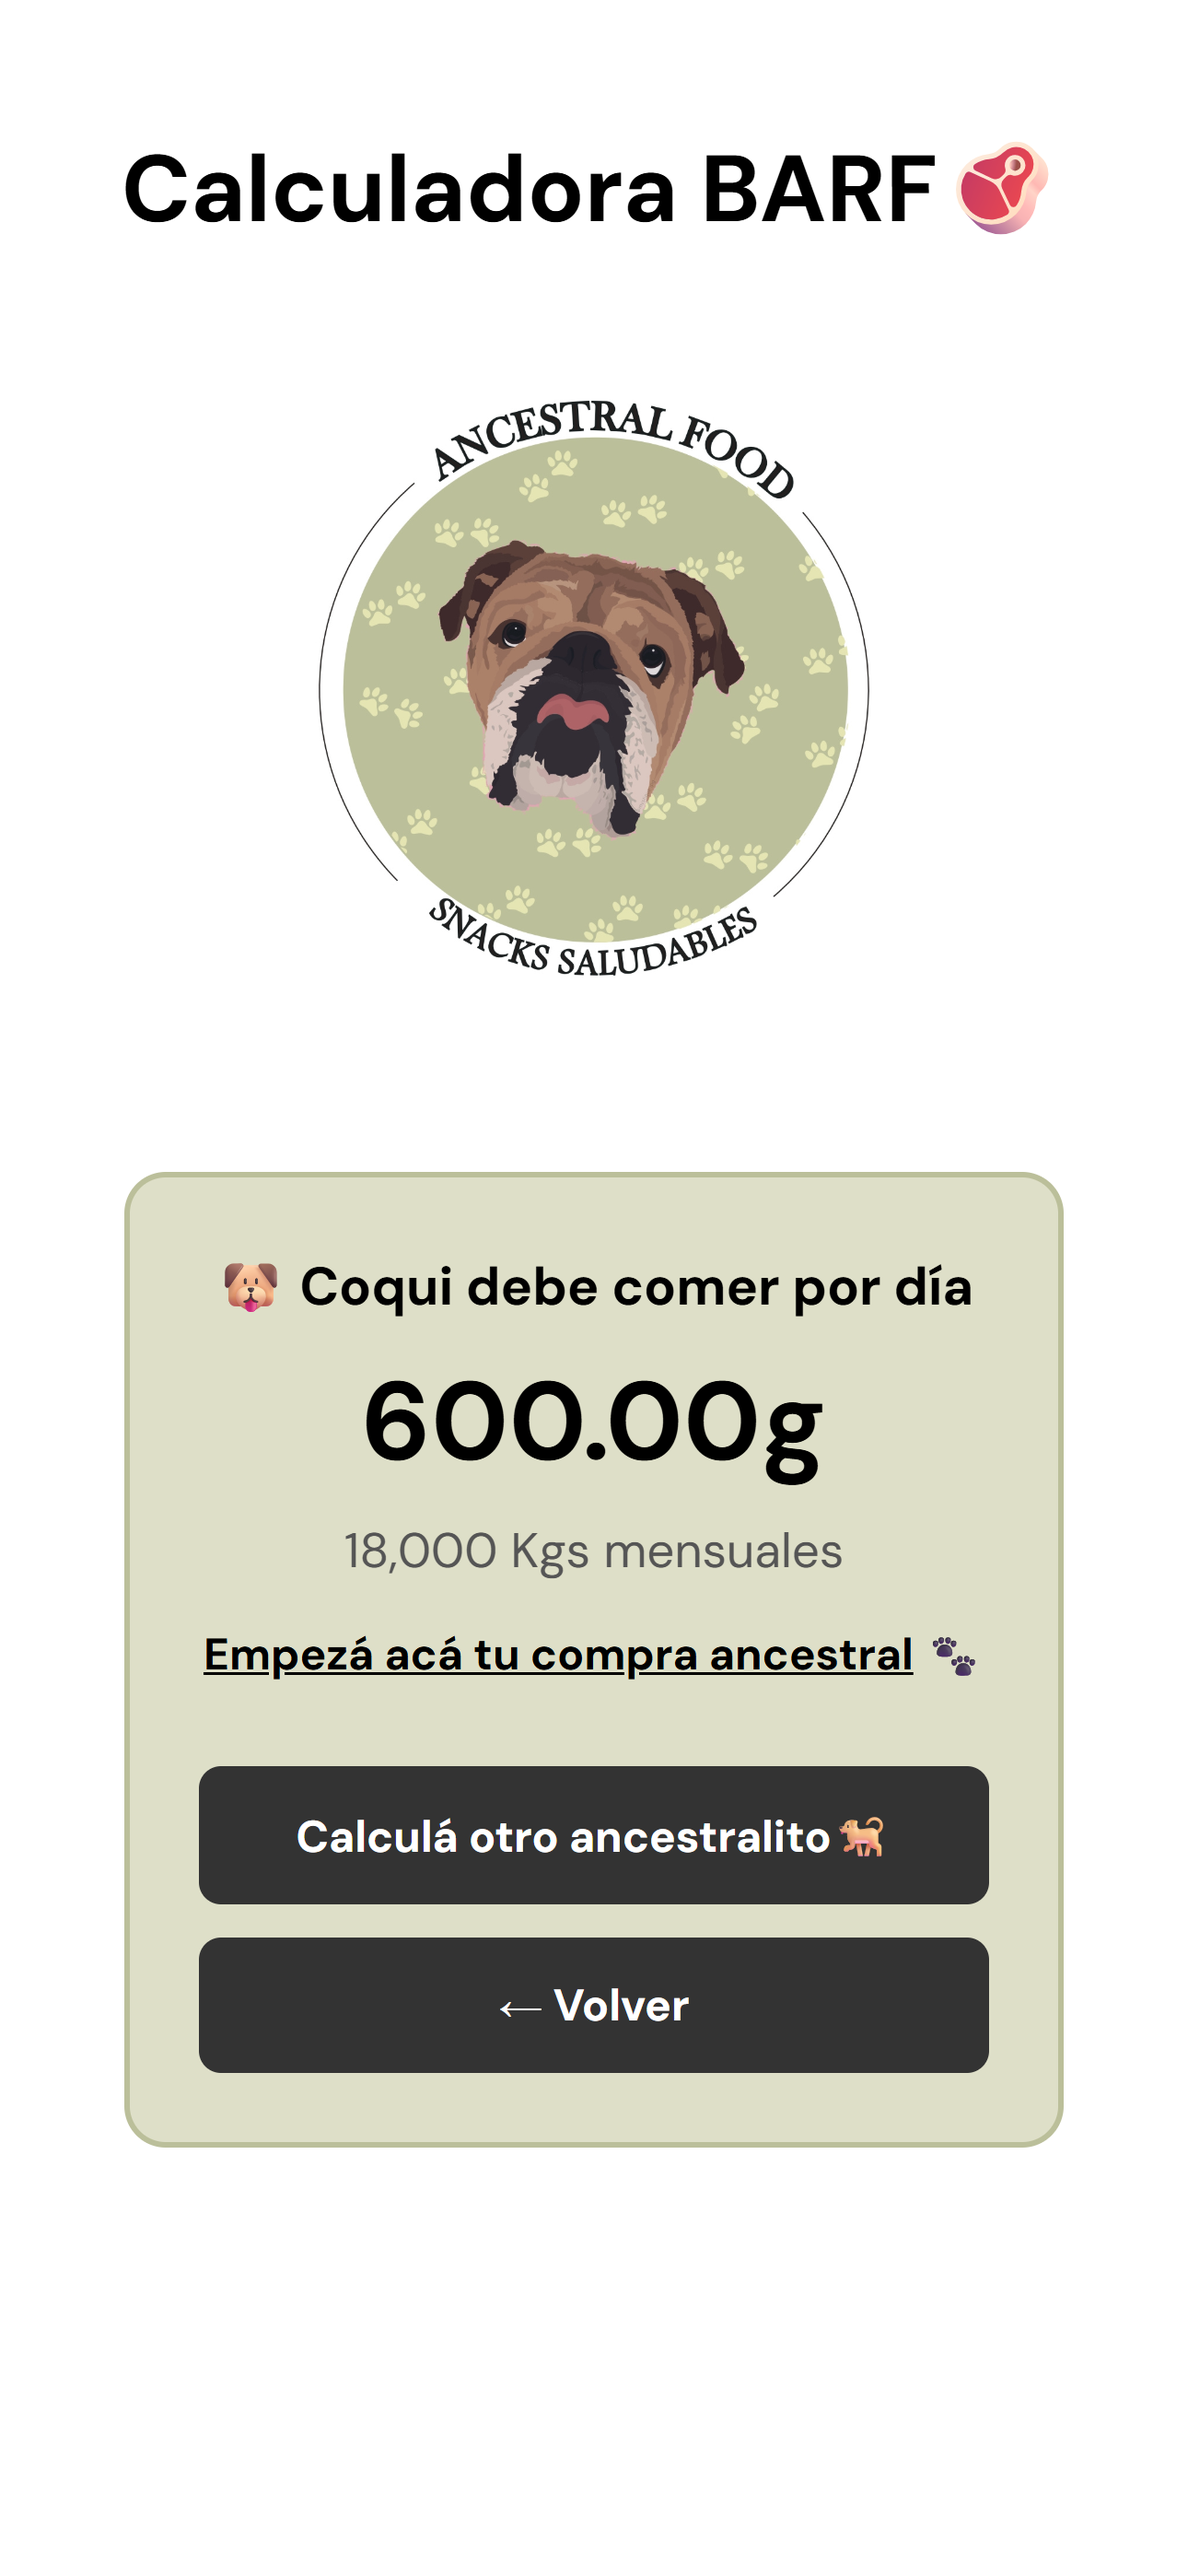
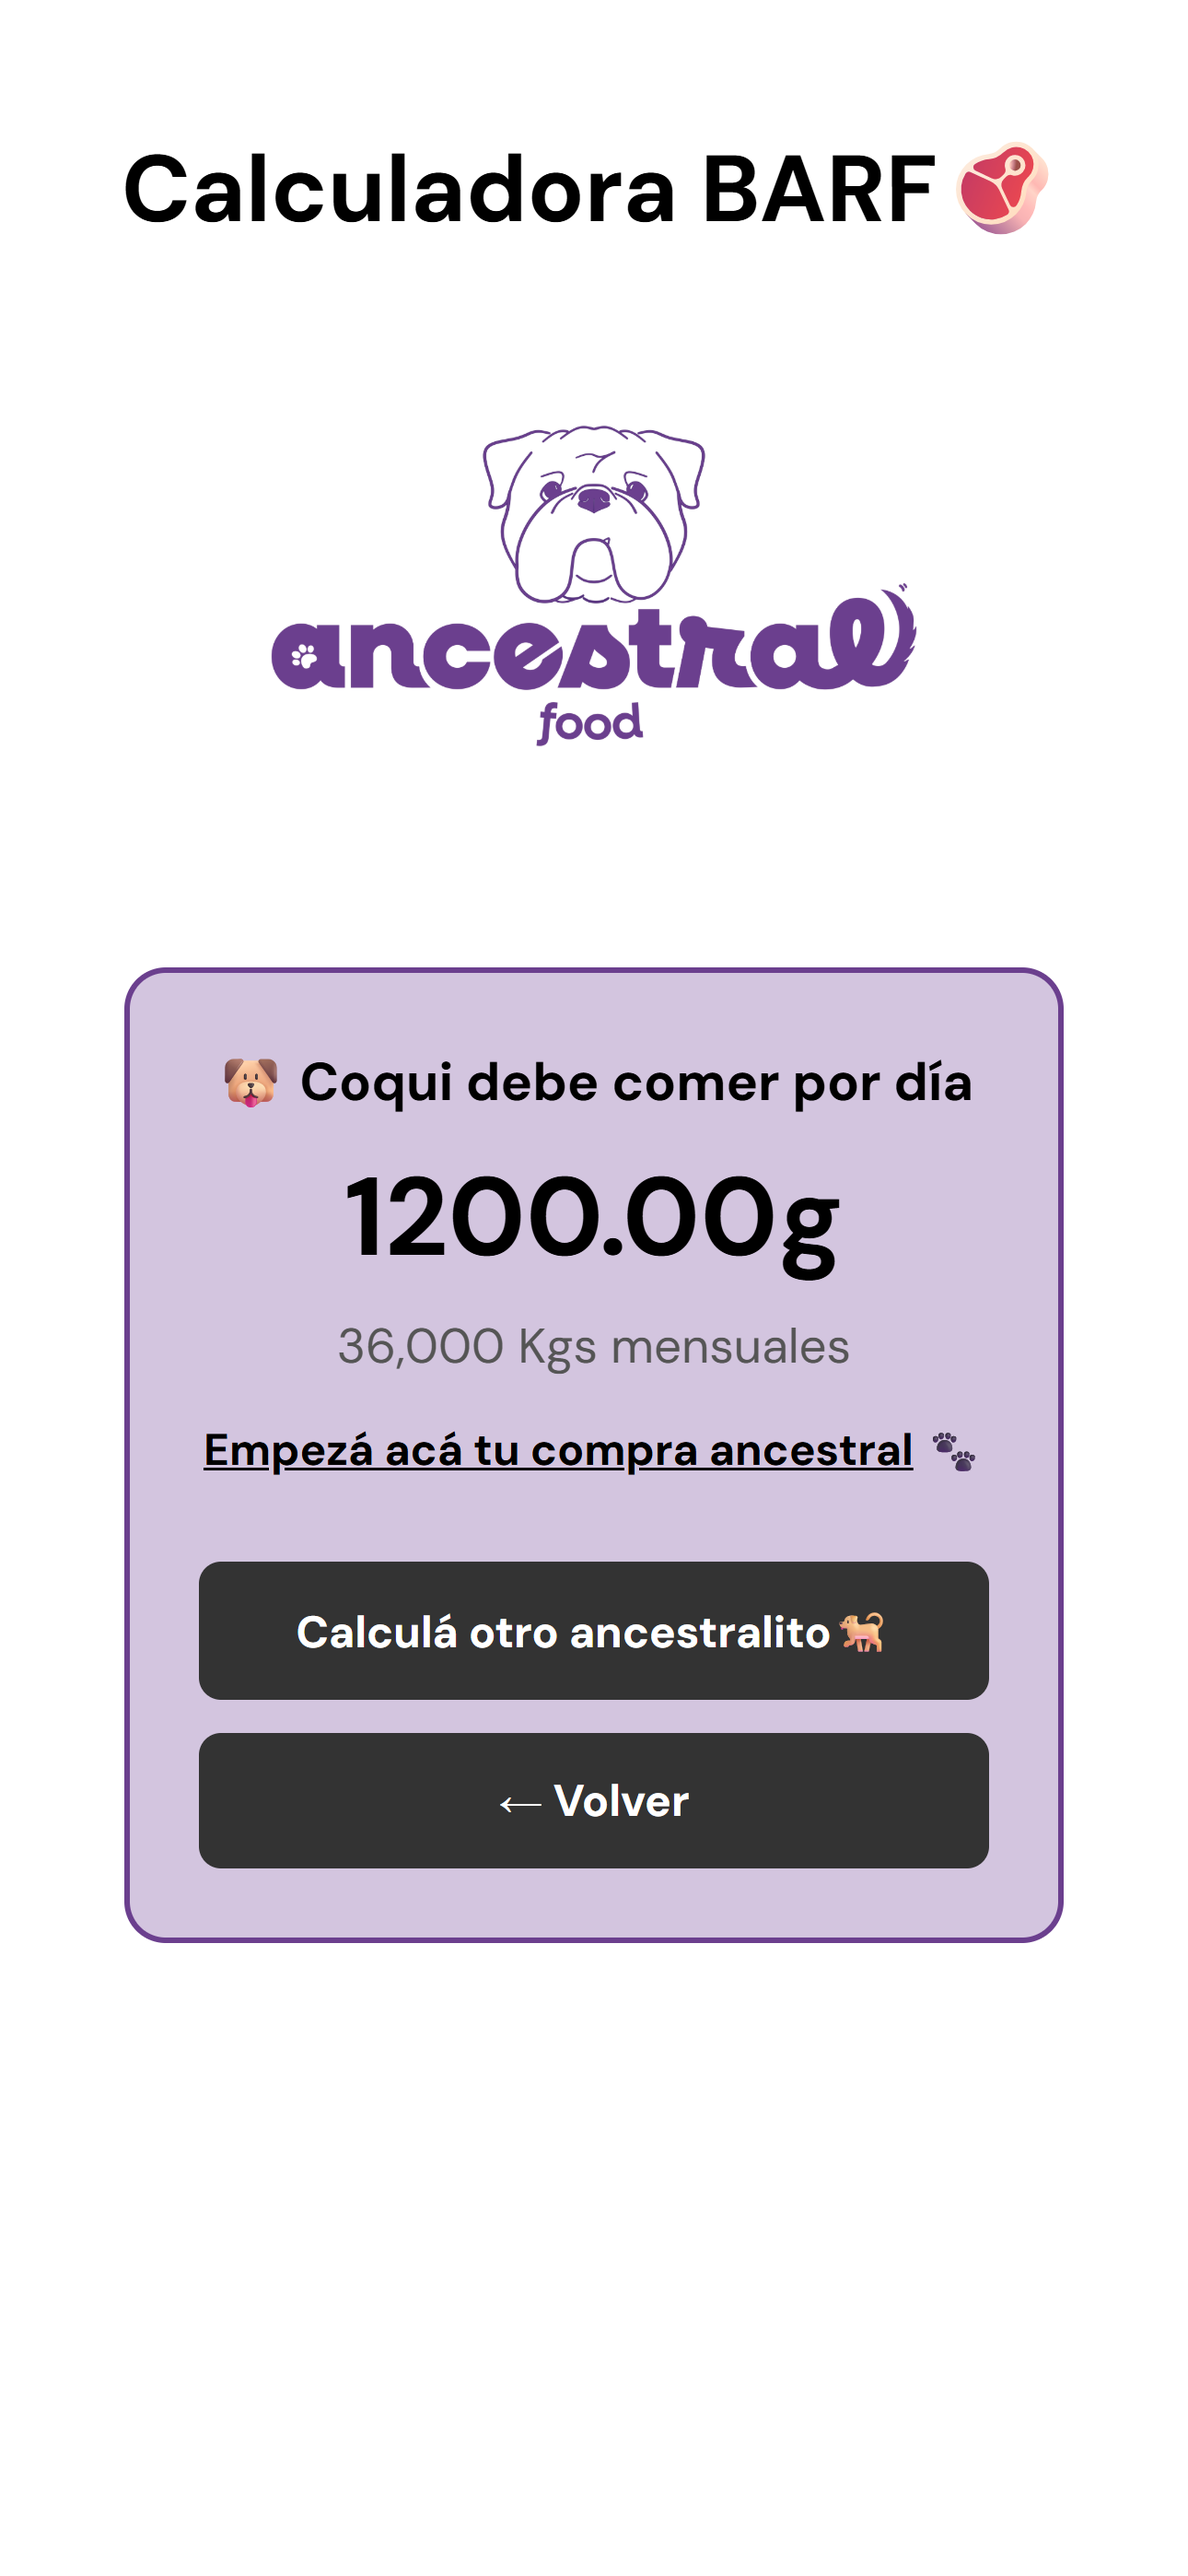
change the image names in index.html, modify the colors in style.css for .result, and update the screenshot within readme.md.

diff --git a/index.html b/index.html
@@ -13,7 +13,7 @@
 
     <header>
         <h1>Calculadora BARF🥩</h1>
-        <img src="assets/logo ancestral01.png" alt="Logo Ancestral" class="logo-principal">
+        <img src="assets/logo-ancestral.png" alt="Logo Ancestral" class="logo-principal">
     </header>
 
     <div id="initial-disclaimer" class="alert-overlay hidden" style="opacity: 0;">
@@ -39,7 +39,7 @@
                 <h4>Vemos que para la edad de tu peludo, es recomendable incluir caldo de huesos🐶 (tocá la foto para pedirlo👇🏼)</h4>
             </div>
             <a href="https://www.ancestralfood.pet/search?q=caldo+de+huesos" target="_blank">
-                <img src="assets/caldo congelado.png" alt="Caldo" class="logo-caldo">
+                <img src="assets/frozen-bone-broth.png" alt="Caldo" class="logo-caldo">
             </a>
         </div>
     </div>
@@ -56,11 +56,11 @@
     <div id="step-3" class="step hidden">
         <label>¿Cómo es la condición física de tu animal?</label>
         <div class="condition-grid">
-            <div class="condition-option" data-value="verySlow"><img src="assets/01.png"><span>Muy delgado</span></div>
-            <div class="condition-option" data-value="low"><img src="assets/11.png"><span>Delgado</span></div>
-            <div class="condition-option" data-value="normal"><img src="assets/22.png"><span>Normal</span></div>
-            <div class="condition-option" data-value="slightOverweight"><img src="assets/33.png"><span>Sobrepeso leve</span></div>
-            <div class="condition-option" data-value="markedOverweight"><img src="assets/44.png"><span>Sobrepeso marcado</span></div>
+            <div class="condition-option" data-value="verySlow"><img src="assets/very-low-condition.png"><span>Muy delgado</span></div>
+            <div class="condition-option" data-value="low"><img src="assets/low-condition.png"><span>Delgado</span></div>
+            <div class="condition-option" data-value="normal"><img src="assets/normal-condition.png"><span>Normal</span></div>
+            <div class="condition-option" data-value="slightOverweight"><img src="assets/overweight-condition.png"><span>Sobrepeso leve</span></div>
+            <div class="condition-option" data-value="markedOverweight"><img src="assets/marked-overweight-condition.png"><span>Sobrepeso marcado</span></div>
         </div>
         <input type="hidden" id="physical-condition">
         <div class="button-group">
@@ -73,10 +73,10 @@
     <div id="step-4" class="step hidden">
         <label>Estilo de vida de tu ancestralito</label>
         <div class="activity-grid">
-            <div class="activity-option" data-value="lowActivity"><img src="assets/1.png"><span>Baja</span></div>
-            <div class="activity-option" data-value="normal"><img src="assets/2.png"><span>Normal</span></div>
-            <div class="activity-option" data-value="high"><img src="assets/3.png"><span>Alta</span></div>
-            <div class="activity-option" data-value="veryHigh"><img src="assets/4.png"><span>Muy alta</span></div>
+            <div class="activity-option" data-value="lowActivity"><img src="assets/low-activity-dog.png"><span>Baja</span></div>
+            <div class="activity-option" data-value="normal"><img src="assets/normal-activity-dog.png"><span>Normal</span></div>
+            <div class="activity-option" data-value="high"><img src="assets/high-activity-dog.png"><span>Alta</span></div>
+            <div class="activity-option" data-value="veryHigh"><img src="assets/very-high-activity-dog.png"><span>Muy alta</span></div>
         </div>
         <input type="hidden" id="life-style">
         <div class="button-group">

diff --git a/css/style.css b/css/style.css
@@ -206,14 +206,14 @@ button:disabled {
 .result {
     display: flex;
     flex-direction: column;
-    background-color: #dedfc8;
+    background-color: #d3c5df;
     padding: 25px;
     border-radius: 15px;
     text-align: center;
     margin: 20px 0;
     width: 340px; 
     max-width: 100%;
-    border: 2px solid #BBBF9A;
+    border: 2px solid #6b3f8e;
     opacity: 1;
     transition: opacity 0.5s ease-in-out;
 }
